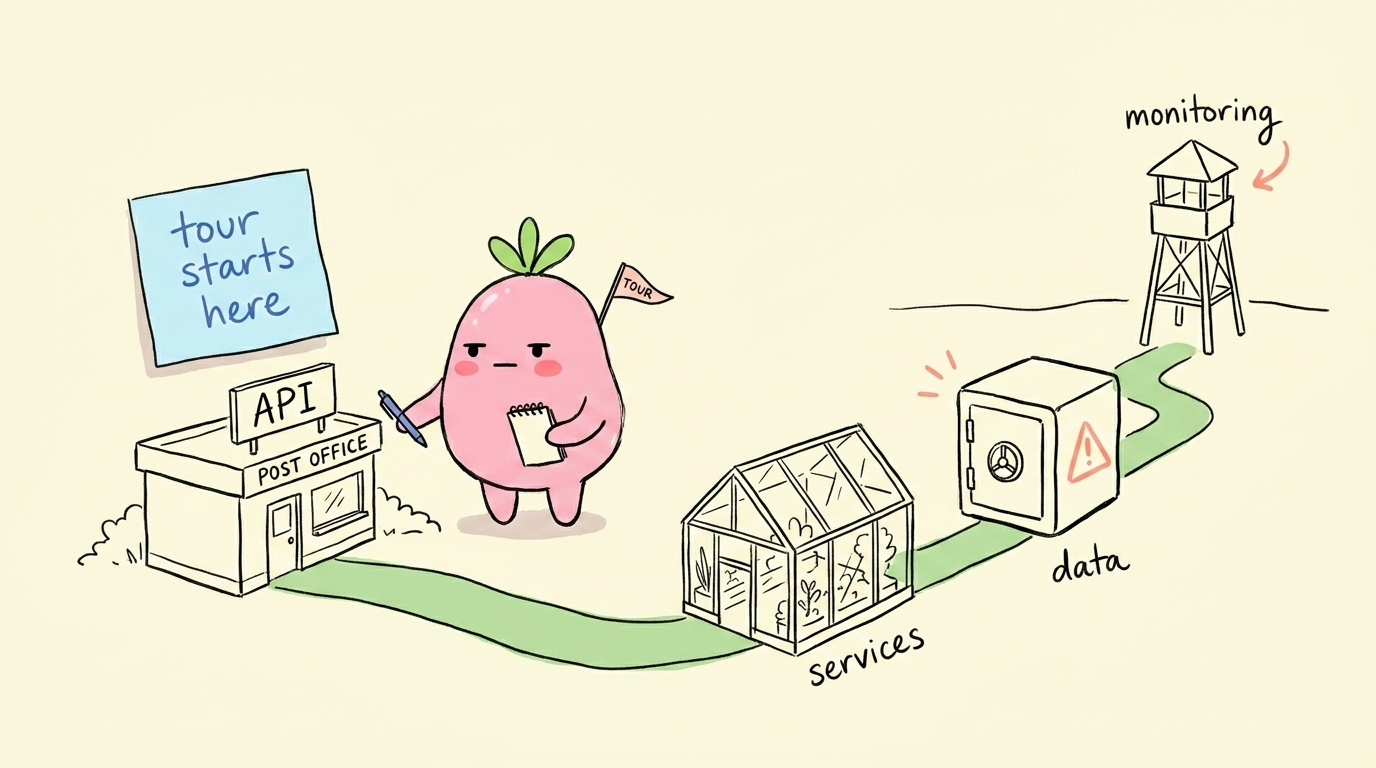
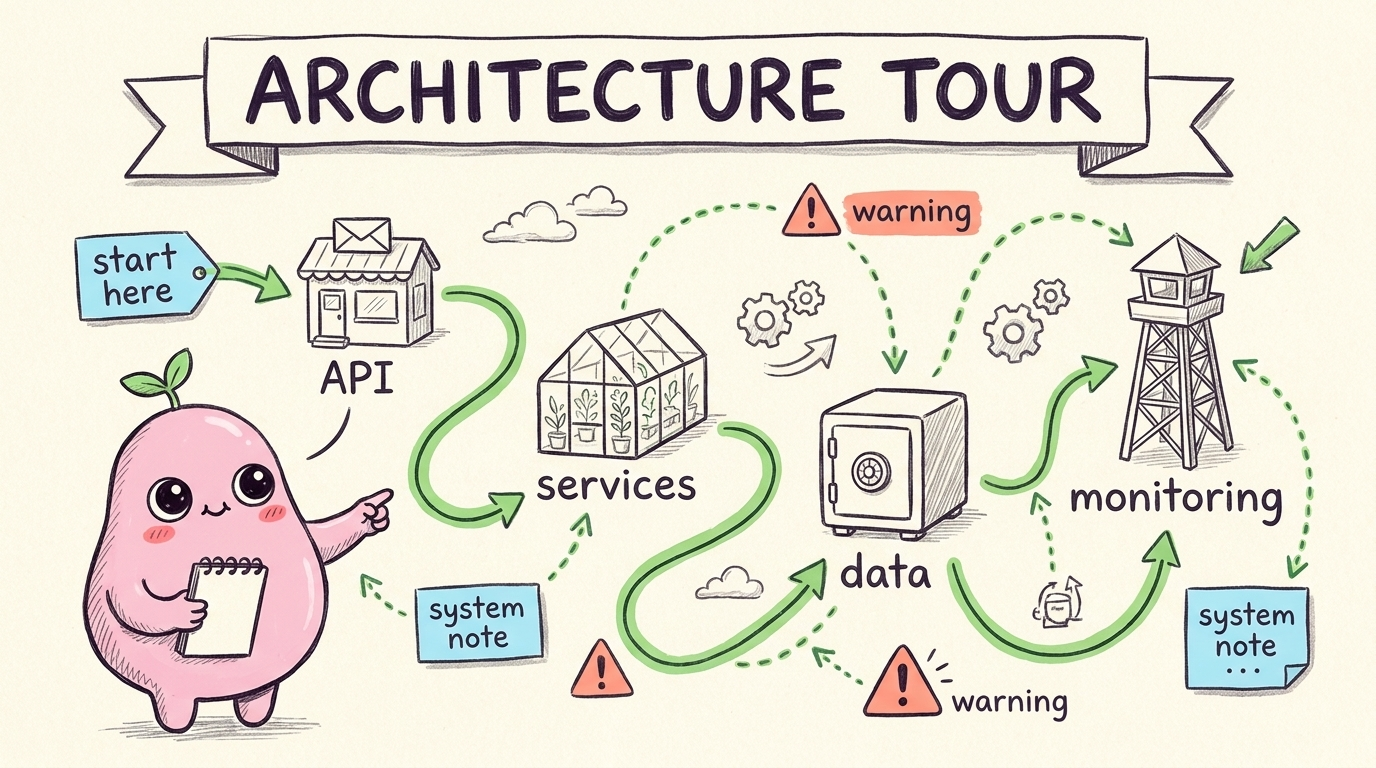
feat(illustration:popa): intricate sketchnote style with text integrity
Reworks Popa from sparse pastel scenes to intricate hand-drawn
sketchnotes — a banner plus many linked boxes, notes, arrows and icons,
busy but legible. Adds a hard text-integrity rule: decide the exact
labels first, allow only those words, and fix garble with text-only
edits rather than regenerating. Updates style-dna, prompt-template,
qa-checklist, SKILL.md and the shared composition-patterns, and
regenerates the six calibration examples in the new style.

diff --git a/plugins/illustration/skills/popa/references/prompt-template.md b/plugins/illustration/skills/popa/references/prompt-template.md
@@ -1,69 +1,66 @@
-# Image generation prompt template
+# Image generation prompt template — intricate Popa sketchnote
 
-Generate each image separately. Replace the variables; never collage multiple images into one.
-
-**MANDATORY: pass the character references as input images on every call** (likeness cannot be described in words):
+Generate each image separately. **Pass the character references on every call** (likeness can't be described in words):
 
 ```bash
 uv run generate_image.py --prompt "..." --filename out.png \
   -i assets/popa-ref/popa_square.png -i assets/popa-ref/tiny_popa2.png
 ```
 
+## The text-integrity workflow (do this every time)
+
+1. **Write the label list first** — the exact, short words the image is allowed to contain (banner + each box/tag). Nothing else may appear as text.
+2. Put that list into the prompt as a hard rule (the `ALLOWED TEXT` block below).
+3. After generating, **read the image and check every label**. If any is garbled or any stray text appeared, **fix it with an edit pass** (see *Edit prompts*) — do NOT full-regenerate a good composition.
+
 ```text
-The pink creature in the two reference images is Popa. Draw THIS exact character — same chubby pear proportions, same big glossy black eyes, same rosy cheeks, same green sprout — translated into crude hand-drawn pen line art (do NOT copy the 3D render style of the references, only the character design).
+The pink creature in the two reference images is Popa. Draw THIS exact character — chubby pear proportions, big glossy black eyes, rosy cheeks, green sprout, small notepad — translated into crude hand-drawn pen line art (do NOT copy the 3D render style of the references, only the character design).
 
-Generate one standalone {ASPECT} illustration. The canvas MUST be {ASPECT} — do not drift the aspect ratio. Do not copy the background or layout of the reference images.
+Generate one standalone {ASPECT} illustration. The canvas MUST be {ASPECT}. Do not copy the reference background or layout.
 
-Visual DNA:
-Crude, wobbly hand-drawn pen line art on a soft flat pastel {cream|lavender|mint|blush} paper-tone background. Slightly uneven lines, sketchbook feel. Lots of calm empty space. Sparse handwritten English labels. Sleek but funny product-sketch energy. No 3D render, no clay style, no vector illustration, no PPT infographic look, no gradients-heavy rendering, no photo texture, no realistic UI, no mascot poster.
+Style — INTRICATE SKETCHNOTE:
+Crude, wobbly hand-drawn pen line art on a soft flat pastel {cream|mint|lavender|blush} background. A bold hand-lettered banner title; many small ideas in hand-drawn boxes, clouds and tags, wired together with arrows and dotted connectors; bullet lists with little stars/checkmarks; small spot icons scattered through. Busy and packed — "lots of scribblings in one note" — but with clear left-to-right hierarchy and legible lettering. No 3D, no comic cel-shading, no photoreal, no vector-flat, no mascot poster.
 
-Recurring IP character required:
-Popa, a small pink round blob creature with a little green sprout on its head, big glossy black eyes, a tiny calm smile, stubby arms and legs, drawn in the same crude hand-drawn line style with pink fill. Popa carries a small notepad and pen — in hand, tucked under an arm, or lying open nearby. Popa must perform the core conceptual action with deadpan earnestness, like a diligent worker who thinks this absurd job is completely normal. The humor comes from the situation, never from Popa's expression.
+Popa (the host):
+Popa appears in the scene with its notepad, doing or pointing at the core action — deadpan-earnest, the only fully-saturated (pink) element.
 
-Theme:
-{theme}
+Banner title:
+{the one banner headline}
 
-Structure type:
-{Workflow / system fragment / before-after contrast / role state / concept metaphor / method layering / map route / mini comic panels / architecture overview / architecture zoom-in}
+Clusters (each a small boxed/cloud idea, a few words max):
+{cluster 1} / {cluster 2} / {cluster 3} / {cluster 4} / {cluster 5} / {cluster 6}
 
-Core idea:
-{the one idea this image expresses}
+Icons & connectors:
+{icon 1} / {icon 2} / {icon 3}; arrows linking {A→B}, {B→C}
 
-Composition:
-{concrete scene: where Popa is, what absurd-but-coherent job it is doing, the main low-tech object, how information flows}
+Color:
+Pink only for Popa + key highlights. Green for the flow-line, arrows, links, success. Soft coral only for warnings. Sky blue only for system/secondary notes. Graphite for line work.
 
-Suggested elements:
-{element 1} / {element 2} / {element 3}
+ALLOWED TEXT (CRITICAL):
+The ONLY words allowed anywhere in the image are exactly these, spelled exactly and legibly, and NOTHING else:
+{banner} ; {label 1} ; {label 2} ; {label 3} ; … (list every word that may appear)
+Do NOT invent, scribble, or letter any other words, letters, numbers or instruction text anywhere. If a spot would need other text, draw a plain icon instead. Keep every label large enough to read.
 
-Handwritten labels:
-{label 1} / {label 2} / {label 3} / {label 4} / {optional 5}
-
-Optional notepad gag (one tiny line on the notepad, skip if busy):
-{e.g. "day 47: box still empty"}
-
-Color use:
-Pink only for Popa and key highlights. Green for the sprout and main flow/paths/arrows/success. Soft coral only for warnings/problems/painful results. Sky blue only for system state or secondary notes. Soft graphite for line work and structure.
-
-Constraints:
-One image explains only one core structure. Main subject 40-60% of the canvas; keep at least 30% calm space. At most 5-8 short handwritten labels. No title in the top-left corner. Never write the structure type on the image. Do not copy prior examples; invent a fresh visual metaphor for this content. Clear but not instructional, funny but not childish, cute but deadpan.
+Layout:
+Optionally a {green flow-line / path} entering from the left edge and exiting the right edge to carry the eye. Busy but organised. No title in the top-left corner.
 ```
 
-## Edit prompts
+## Edit prompts (use these to fix, not regenerate)
+
+Fix garbled / stray text (preferred over regenerating):
+
+```text
+Edit the provided sketchnote. Change ONLY the text so every label is clean and legible — keep all art, layout, colours and positions identical. The labels must read exactly: {list the exact correct words per region}. Remove any stray or gibberish text and any words not in this list. Do not alter the artwork.
+```
 
 Fix a missing anchor:
 
 ```text
-Edit the provided image. Popa is missing {the green sprout / the notepad}. Add it in the same crude hand-drawn style without changing anything else: same composition, labels, colors, line style, aspect ratio.
+Edit the provided image. Popa is missing {the green sprout / the notepad}. Add it in the same crude hand-drawn style; change nothing else.
 ```
 
-Make Popa matter more:
+Add more density (if too sparse):
 
 ```text
-Regenerate with the same core meaning and layout, but make Popa the one performing the central action — operating, carrying, logging — not standing beside the diagram. Keep it pastel, sparse, hand-drawn, deadpan.
-```
-
-De-clutter:
-
-```text
-Regenerate with the same metaphor but remove all but {N} elements and at most 5 short labels. More calm space. One structure only.
+Edit the provided sketchnote to be busier — add a few more small linked boxes/notes/icons and connector arrows in the empty areas, in the same hand-drawn pastel style. Keep all existing labels exactly as they are and add only these new labels: {list}. No gibberish.
 ```

diff --git a/plugins/illustration/skills/popa/references/popa-style-dna.md b/plugins/illustration/skills/popa/references/popa-style-dna.md
@@ -1,45 +1,46 @@
-# Style DNA
+# Style DNA — intricate Popa sketchnote
+
+Popa draws **intricate hand-drawn sketchnotes**: one busy page where many small ideas are scribbled and wired together — a banner, boxes, clouds, arrows, bullets, spot icons — with Popa as the doodle host. Lots going on in the same note, but **every word is legible** (text integrity is non-negotiable).
 
 ## In one line
 
-Soft pastel scene, crude hand-drawn lines, lots of quiet space, one cute pink blob doing serious absurd work, sleek but funny, clear structure but never an instruction manual.
-
-Like a senior engineer sketching on pastel paper while a small pink creature files paperwork about it.
+A packed hand-drawn sketchnote on soft pastel: a banner title, many linked boxes/notes/icons wired by arrows, Popa scribbling in the middle — busy, charming, and fully readable.
 
 ## Must
 
-- Crude, wobbly hand-drawn pen lines: not vector, not 3D render, not polished, not mechanical.
-- Soft pastel background scene: rotate cream / lavender / mint / blush paper tones. Flat and gentle — one tone per image.
-- Popa is the most saturated element in the frame: pink body + green sprout pop against the pastel.
-- Quiet space: main subject 40-60% of canvas, at least 30% calm empty area.
-- Max 5-8 short handwritten English labels, each 1-4 words.
-- One image conveys only one core action, structure, state, or metaphor.
-- Express structure naturally; never write the structure type on the image.
+- **Crude, wobbly hand-drawn pen line art** — sketchbook feel, not vector/3D/polished.
+- **Soft flat pastel background** — cream by default (or mint / lavender / blush); one tone per image. For a multi-frame series, keep ONE tone across all frames so they tile.
+- **Intricate & dense** — fill the page with many small linked elements: a hand-lettered banner, several boxed/cloud ideas, mini-icons, short bullet lists and side notes, all wired with arrows and dotted connectors. Little empty space — "lots of scribblings in the same note".
+- **Popa is the host** — the pink blob (green sprout, notepad) somewhere in the scene, doing or pointing at the core action; the only fully-saturated element.
+- **Clear hierarchy despite density** — one banner, grouped clusters, a readable left-to-right flow.
 
 ## Color roles
 
 - **Pink** — Popa, key highlights.
-- **Green** — flow, paths, arrows, success, the sprout.
-- **Soft coral** — warnings, problems, "ouch" moments, results that hurt.
-- **Sky blue** — system state, secondary notes, feedback.
-- **Soft graphite** — line work, structure, objects, primary text.
+- **Green** — the flow-line, arrows, links, success, the sprout.
+- **Soft coral** — warnings, problems, "ouch" tags.
+- **Sky blue** — system state, secondary notes.
+- **Soft graphite** — line work, structure, most text.
 
-Color stays restrained: pastel scene + Popa + at most two accent roles per image.
+Restrained even when dense: colour marks meaning, not decoration.
+
+## Text integrity (NON-NEGOTIABLE)
+
+Dense sketchnotes are exactly where image models invent gibberish. Hold the line:
+
+- **Decide the exact words first.** Every label, banner and tag is chosen up front; the image may contain ONLY those exact strings, spelled exactly.
+- **Keep labels short and big enough to read** — 1–4 words each; prefer more icons over more text.
+- **No invented text.** If a spot would need words you didn't specify, leave it a plain icon rather than let the model scribble.
+- **Fix text by editing, not regenerating.** If a finished frame is great but a label is garbled, run an image *edit* that changes only that text — never a full regenerate (that re-garbles and loses the composition).
 
 ## Absolutely not
 
-- No PPT infographics or course slides.
-- No commercial vector illustration or polished flat style.
-- No 3D/clay renders (Popa's source style is reference, not target).
-- No formal flowcharts or complex architecture in one frame.
-- No realistic UI or app screenshots.
-- No heavy gradients, photo textures, or noisy backgrounds.
-- No top-left type-titles ("Workflow / Architecture / Roadmap").
+- No gibberish or unreadable lettering — ever.
+- No bold-ink comic / cel-shaded / 3D / photoreal / vector-flat look.
+- No paragraphs or long sentences lettered into the page.
+- No top-left format-title; the banner is the title.
 - No saccharine mascot-poster energy: cute is allowed, sugar-rush is not.
-- Never explain every node.
 
 ## Aesthetic direction
 
-Sleek, funny, warm, a little absurd. The reader should smile first, understand the structure within a second, and want to repost it.
-
-Humor comes from situations, never from Popa mugging at the camera.
+A lively, packed, charming hand-drawn page that rewards a second look — many little linked ideas, Popa in the thick of it — and reads cleanly the whole way through. Humour from the situation, never from Popa mugging at the camera.

diff --git a/plugins/illustration/skills/popa/SKILL.md b/plugins/illustration/skills/popa/SKILL.md
@@ -1,19 +1,19 @@
 ---
 name: illustration:popa
-description: Generate illustrations starring Popa, a cute pink blob with a green sprout and a notepad, in crude hand-drawn line art on soft pastel scenes with deadpan-absurd humor. Use for dev/product/system explainers, how-it-works, architecture, methodologies, and friendly social/blog/README art. Sleek but funny; Popa earnestly does absurd system jobs.
+description: Generate intricate hand-drawn sketchnote illustrations starring Popa, a cute pink blob with a green sprout and a notepad, on soft pastel scenes. One busy page of many linked boxes, notes, arrows and icons — busy but fully legible. Use for dev/product/system explainers, how-it-works, architecture, walkthroughs, and friendly social/blog/README art.
 user-invocable: true
 ---
 
-# illustration:popa — deadpan pastel blob
+# illustration:popa — intricate sketchnote blob
 
-Generate hand-drawn explanatory illustrations starring **Popa**: a pink round blob with a green sprout, big glossy eyes, and a notepad. Popa turns a concept, flow, or system into one clean, funny, readable image on a soft pastel scene — deadpan-absurd, sleek but never an instruction manual.
+Generate **intricate hand-drawn sketchnotes** starring **Popa**: a pink round blob with a green sprout and a notepad. Popa turns a concept, flow, or system into one busy, packed, readable sketchnote on a soft pastel scene — a banner, many linked boxes/notes/arrows/icons, Popa scribbling in the middle — *lots of scribblings in the same note*, but every word legible.
 
 ## Read first
 
 1. `${CLAUDE_PLUGIN_ROOT}/references/workflow-engine.md` — the shared digest → shot list → generate → QA → deliver process.
 2. `${CLAUDE_PLUGIN_ROOT}/references/composition-patterns.md` — structure types, format presets, the likeness rule.
 3. `references/popa-ip.md` — Popa's anchors, personality, the notepad gag, forbidden moves.
-4. `references/popa-style-dna.md` — the crude-line + pastel visual law.
+4. `references/popa-style-dna.md` — the intricate-sketchnote visual law (incl. the text-integrity rule).
 5. `references/prompt-template.md` — the generation prompt template.
 6. `references/qa-checklist.md` — pass/fail and iteration.
 7. `assets/popa-ref/` — Popa's renders, passed as the likeness reference on every generation (mandatory).
@@ -21,16 +21,17 @@ Generate hand-drawn explanatory illustrations starring **Popa**: a pink round bl
 
 ## Core positioning
 
-The goal is not commercial illustration or PPT infographics — it is to turn a key judgment, process, structure, state, or metaphor into one clean, weird, readable hand-drawn image on a soft pastel scene. Popa is earnest and slightly bureaucratic, fully committed to an absurd job; the cuteness is the setup, the deadpan absurd labor is the punchline. Popa must carry the core action — never decorate it.
+The goal is to turn a topic — a process, system, argument, or set of features — into one **intricate hand-drawn sketchnote**: a banner, many small linked ideas in boxes/clouds/tags, arrows and spot icons, with Popa hosting the action. Busy and packed ("lots of scribblings in the same note"), but with clear hierarchy and **legible text — no gibberish, ever**. Popa is earnest and deadpan; the cuteness is the setup, the situation is the punchline. Popa hosts the note, never just decorates it.
 
 ## Workflow (engine + Popa specifics)
 
 Follow the five shared steps. Popa specifics:
 
 - **Likeness is mandatory:** pass `assets/popa-ref/popa_square.png` (and `tiny_popa2.png` for the notepad pose) into the backend with "this is Popa; draw THIS exact character — chubby pear body, green sprout, glossy eyes, rosy cheeks — translated into crude hand-drawn pen line art; do not copy the reference's 3D style or background."
-- **The notepad gag:** when there's room, one tiny line on the notepad logging the absurd work ("day 47: box still empty"). Max one per image.
-- **Strict-minimal density:** 3–5 elements; big architectures become a series (see composition-patterns).
-- Pastel scenes rotate cream / lavender / mint / blush; Popa is the only saturated element.
+- **Intricate density:** pack the page with many linked boxes, notes, arrows and icons — busy, not sparse. Big topics can also become a multi-frame series (see composition-patterns).
+- **Text integrity (hard rule):** decide the exact short labels first and allow ONLY those words in the image; never let the model invent text. If a finished frame has a garbled label, fix it with a text-only **edit**, not a regenerate. See `references/prompt-template.md`.
+- **The notepad gag:** when there's room, one tiny legible line on the notepad. Max one per image.
+- Pastel background: cream by default (or mint / lavender / blush); for a series keep one tone across frames so they tile. Popa is the only saturated element.
 
 ## Output style
 

diff --git a/plugins/illustration/skills/popa/references/qa-checklist.md b/plugins/illustration/skills/popa/references/qa-checklist.md
@@ -1,42 +1,36 @@
-# QA Checklist
+# QA Checklist — intricate Popa sketchnote
 
 ## Must pass
 
 - Correct aspect for the format preset (16:9 / 1:1 / 4:5 / 21:9). Verify dimensions, don't eyeball.
-- Soft flat pastel background (cream/lavender/mint/blush), not white, not saturated, not textured.
-- Crude hand-drawn line style — no 3D, no vector polish.
-- All four Popa anchors present: green sprout, pink blob body, glossy eyes + tiny smile, notepad somewhere in scene.
-- Popa carries the core action, not decoration (litmus test: remove Popa, metaphor should collapse).
-- Fresh metaphor — no example composition reuse.
-- One core structure only; 3-5 elements.
-- Labels: ≤8, short, readable English.
-- Color discipline: green = flow, coral = warnings only, blue = system notes only, pink = Popa/highlights only.
-- It's funny: there is an absurd-but-coherent situation, and optionally one notepad gag or one background micro-joke (never both crowding).
+- Soft flat pastel background (cream/mint/lavender/blush) — not white, not saturated, not textured.
+- Crude hand-drawn sketchnote line style — banner + boxes/clouds + arrows + bullets + spot icons. No 3D, no comic cel-shading, no vector polish, no photoreal.
+- **Intricate / dense**: many small linked elements, busy page, little dead space — "lots of scribblings in one note".
+- **Text integrity**: every label is legible and is one of the exact words you specified. NO gibberish, NO invented/stray text. This is a hard gate.
+- Popa anchors present: green sprout, pink blob body, glossy eyes, notepad — and Popa is the host of the action, not decoration.
+- Clear hierarchy despite density: one banner, grouped clusters, readable flow.
+- Colour discipline: green = flow/links, coral = warnings only, blue = system notes only, pink = Popa/highlights.
 
 ## Failure signals
 
-Regenerate or locally edit when:
+Fix (prefer an edit) when:
 
-- Aspect drifted from the preset.
-- Background went white, saturated, gradient-heavy, or textured.
-- Style drifted to 3D/clay/vector/mascot-poster.
-- An anchor is missing (most common: sprout or notepad).
-- Popa is mugging — sweat drops, panic, sparkles, heart eyes.
-- Looks like PPT, course slide, or formal flowchart.
-- More than one micro-joke, or the gag competes with structure.
-- Too many elements, arrows, or nodes.
-- Top-left type-title appeared.
-- Too similar to an `assets/examples/` composition.
+- **Any garbled or stray text** — top priority; never ship gibberish.
+- Aspect drifted; background went white/saturated/textured.
+- Style drifted to 3D/comic/vector/mascot-poster.
+- Too sparse / not intricate enough (big empty areas, only a couple of elements).
+- An anchor missing (sprout or notepad), or Popa is mugging (sparkles/panic).
+- A top-left format-title appeared.
+- Too similar to a bundled example.
 
 ## How to iterate
 
-- Too plain: give Popa a stranger (but coherent) job; add the notepad gag.
-- Too crowded: cut to one action + 3-5 elements + ≤5 labels.
-- Too cute/sugary: strip sparkles and poses; emphasize deadpan diligence, bureaucratic calm.
-- Too stiff/diagram-y: remove borders and grids; replace one box with a low-tech object.
-- Anchor missing: prefer local edit (see prompt-template edit prompts).
-- Wrong text: local edit first; many errors → regenerate with fewer labels.
+- **Garbled/stray text** (most common): run a text-only **edit** with the exact correct words per region — do NOT full-regenerate (it re-garbles and loses the composition). See prompt-template *Edit prompts*.
+- Too sparse: edit to add more linked boxes/notes/icons + connectors in the empty areas; specify the new labels explicitly.
+- Too cluttered to read: drop a few low-value tags; enlarge remaining labels.
+- Anchor missing: local edit.
+- Off-model Popa: pass the reference images again and restate the anchors.
 
 ## Delivery judgment
 
-A high-quality Popa image makes the reader smile in the first second, understand the structure in the next, and want to repost it. If the first glance reads "corporate explainer" or "mascot ad," it fails.
+A strong Popa sketchnote is busy and rewarding — many little linked ideas, Popa in the thick of it — and reads cleanly the whole way through. If any word is gibberish, it fails, no matter how good the art is.

diff --git a/plugins/illustration/references/composition-patterns.md b/plugins/illustration/references/composition-patterns.md
@@ -28,15 +28,15 @@ Pick one per image; don't mix.
 - **Mini comic panels** — 2–4 scenes, one action each.
 - **Hero / brand** — single bold subject + tagline space (marketing).
 
-## Architecture-series pattern (strict minimal, split big topics)
+## Series pattern — split big topics across frames
 
-Never one dense diagram. A big system becomes a series:
+Don't cram a whole system into one frame; give each topic its own (intricate) frame in a series:
 
-1. **Overview frame** — 3–5 mega-blocks as friendly objects; mascot as guide.
-2. **Zoom-in frames** — one per block that matters, 3–5 elements each.
+1. **Overview frame** — the handful of mega-blocks as friendly objects; Popa as guide.
+2. **Per-topic frames** — one intricate sketchnote per block/feature that matters (each densely drawn, busy but legible).
 3. Optional **flow frame** — the one critical path as a map route.
 
-Each frame stands alone; number them in the shot list.
+Within a frame, be intricate (see the style DNA); across frames, split topics so no single page tries to explain everything. Each frame stands alone; number them in the shot list and keep one pastel tone so they tile.
 
 ## Likeness rule (MANDATORY — applies to every mascot)
 
